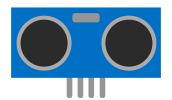
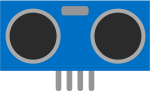
Improve image alignment for some components

diff --git a/tkgpio/tkgpio.py b/tkgpio/tkgpio.py
@@ -206,7 +206,7 @@ class TkBuzzer(TkDevice):
         
         self._set_image_for_state("buzzer_on.png", "on", (50, 33))
         self._set_image_for_state("buzzer_off.png", "off", (50, 33))
-        self._create_main_widget(Label, "off")
+        self._create_main_widget(Label, "off", x_offset=-15)
         
         if frequency != None:
             n_samples = self.SAMPLE_RATE
@@ -243,8 +243,8 @@ class TkLED(TkDevice):
         
         self._previous_state = None
         
-        TkLED.on_image = self._set_image_for_state("led_on.png", "on", (30, 30))
-        self._set_image_for_state("led_off.png", "off", (30, 30))
+        TkLED.on_image = self._set_image_for_state("led_on.png", "on", (19, 30))
+        self._set_image_for_state("led_off.png", "off", (19, 30))
         self._create_main_widget(Label, "off")
         
     def update(self):
@@ -477,7 +477,7 @@ class TkDistanceSensor(TkDevice):
         self._echo_pin._bounce = 0
         self._trigger_pin._bounce = 0
         
-        self._set_image_for_state("distance_sensor.png", "normal", (86, 50))
+        self._set_image_for_state("distance_sensor.png", "normal", (83, 50))
         self._create_main_widget(Label, "normal")
         
         self._scale = Scale(root, from_=min_distance, to=max_distance,

diff --git a/tkgpio/base.py b/tkgpio/base.py
@@ -40,9 +40,9 @@ class TkDevice():
     def _redraw(self):
         self._root.update()
     
-    def _create_main_widget(self, widget_class, initial_state=None):
+    def _create_main_widget(self, widget_class, initial_state=None, x_offset=0, y_offset=0):
         self._widget = widget_class(self._root, background="white")
-        self._widget.place(x=self._x, y=self._y)
+        self._widget.place(x=self._x+x_offset, y=self._y+y_offset)
         
         if initial_state != None:
             self._change_widget_image(initial_state)
